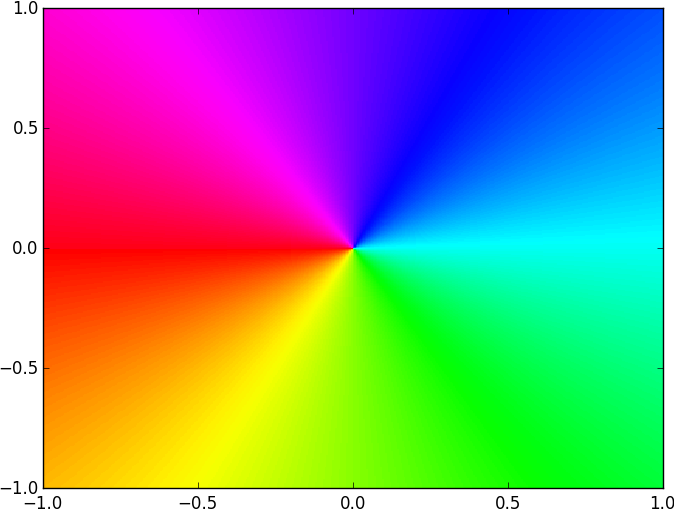
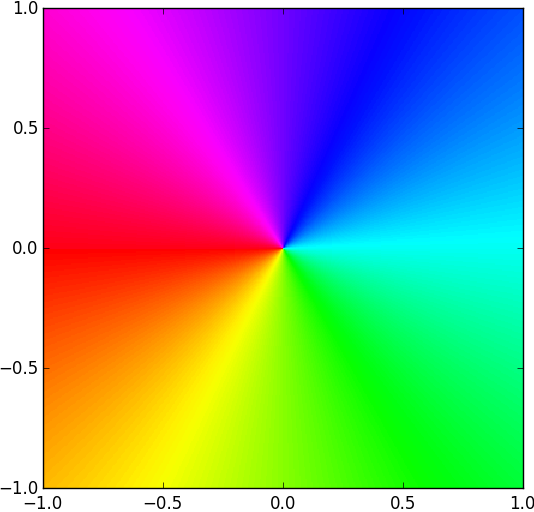
finished editing pictures and appendix

diff --git a/Labs/ComplexNumbers/complexnumbers.tex b/Labs/ComplexNumbers/complexnumbers.tex
@@ -67,8 +67,9 @@ This colormap is red at both ends, so that $0$ and $2 \pi$ will map to the same 
 
 
 \begin{figure}
-\includegraphics[width=\textwidth]{Identity.png}
-\caption{Color plot of the identity map.}
+\includegraphics[width=.7\textwidth]{Identity.png}
+\caption{Plot of $f: \mathbb{C} \rightarrow \mathbb{C}$ defined by $f(z)=z$. 
+The color at each point $z$ represents the argument of $f(z)$.}
 \label{fig:identity}
 \end{figure}
 
@@ -99,8 +100,8 @@ If you do not specify them, matplotlib will scale the colormap to fit your data 
 
 Check your function on the identity (graphed in Figure \ref{fig:identity}) and on the function $f(z) = \sqrt{z^2+1}$, which is graphed in Figure \ref{fig:check_plot}.
 \begin{figure}[H]
-\includegraphics[width=\textwidth]{check_plot.png}
-\caption{Plot of $\sqrt{z^2+1}$ on the domain $\{x+iy \mid x \in [-3,3] , y \in [-3,3]\}$ created by \li{plot_complex()}.}
+\includegraphics[width=.7\textwidth]{check_plot.png}
+\caption{Plot of $\sqrt{z^2+1}$ on the domain $\{x+iy \mid x \in [-3,3] , \; y \in [-3,3]\}$ created by \li{plot_complex()}.}
 \label{fig:check_plot}
 \end{figure}
 
@@ -117,7 +118,7 @@ The plots created by your function \li{plot_complex()} are surprisingly informat
 \leavevmode
 \begin{enumerate}
 \item Use \li{plot_complex()} to plot the functions $z^2$, $z^3$, and $z^4$. What do you notice?
-\item Plot $z^3 - iz^4 - 3z^6$ on the domain $\{x+iy \mid x \in [-1,1] , y \in [-1,1]\}$ (this plot is Figure \ref{TODO!}). 
+\item Plot $z^3 - iz^4 - 3z^6$ on the domain $\{x+iy \mid x \in [-1,1] , \; y \in [-1,1]\}$ (this plot is Figure \ref{fig:zeros}). 
 Compare it to your plot of $z^3$, especially near the origin.
 Based on these plots, what can you learn about the zeros of a function from its graph?
 \end{enumerate}
@@ -140,13 +141,20 @@ f(z) = \sum_{k=n}^{\infty} a_k(z-z_0)^k \qquad \text{with} \; a_n \neq 0.
 \]
 In other words, $f(z) = a_n(z-z_0)^n + a_{n+1}(z-z_0)^{n+1} + \ldots$. 
 In a small neighborhood of $z_0$, the quantity $|z-z_0|^{n+k}$ is much smaller than $|z-z_0|^n$, and so the function behaves like $a_n(z-z_0)^n$.
-This explains why you can estimate the order of a zero by counting the number of times the colors circle a point (see Figure \ref{TODO}).
+This explains why you can estimate the order of a zero by counting the number of times the colors circle a point (see Figure \ref{fig:zeros}).
 
-% Insert plot of $f(z) = z^3 - i*z^4 - 3*z^6$. From this plot we see that $f(z)$ has a zero of order 3 at the origin, and 3 zeros of order 1 scattered around it. This accounts for the 6 roots of $f(z)$ that are guaranteed to exist by the Fundamental Theorem of Algebra.
+\begin{figure}
+\includegraphics[width=.7\textwidth]{zeros.png}
+\caption{Plot of $f(z)=z^3 - iz^4 - 3z^6$ on the domain $\{x+iy \mid x \in [-1,1] , \; y \in [-1,1]\}$.
+From this plot we see that $f(z)$ has a zero of order 3 at the origin, and 3 zeros of order 1 scattered around it. 
+This accounts for the 6 roots of $f(z)$ that are guaranteed to exist by the Fundamental Theorem of Algebra.}
+\label{fig:zeros}
+\end{figure}
+
 
 \subsection*{Poles}
 
-These plots can also tell us about the poles of a function.
+The plots created by \li{plot_complex()} can also tell us about the poles of a function.
 
 \begin{problem}\label{prob:poles}
 \leavevmode
@@ -154,7 +162,7 @@ These plots can also tell us about the poles of a function.
 \item Use \li{plot_complex()} to plot the function $f(z) = 1/z$. 
 Compare this to the plot of $f(z)=z$ in Figure \ref{fig:identity}.
 What is the difference?
-\item Plot $z^{-2}$, $z^{-3}$, and $z^2+iz^{-1}+z^{-3}$ on the domain $[-1,1] \times [-1,1]$. 
+\item Plot $z^{-2}$, $z^{-3}$, and $z^2+iz^{-1}+z^{-3}$ on the domain $\{x+iy \mid x \in [-1,1] , \; y \in [-1,1]\}$. 
 Compare the plots of the last two functions near the origin.
 Based on these plots, what can you learn about the poles of a function from its graph?
 \end{enumerate}
@@ -172,7 +180,7 @@ In general, a function has a \emph{pole of order n} at $z_0$ if its Laurent seri
 f(z) = \sum_{k=-n}^\infty a_k(z-z_0)^k  \qquad \text{with} \; a_{-n} \neq 0.
 \]
 In other words, $f(z) = a_{-n}(z-z_0)^{-n}+a_{-n+1}(z-z_0)^{-n+1} + \ldots$.
-Since $|z-z_0|^{-n+k}$ is much smaller than $|z-z_0|^n$ when $|z-z_0|$ is small, near $z_0$ the function behaves like $a_{-n}(z-z_0)^-n$.
+Since $|z-z_0|^{-n+k}$ is much smaller than $|z-z_0|^{-n}$ when $|z-z_0|$ is small, near $z_0$ the function behaves like $a_{-n}(z-z_0)^{-n}$.
 This explains why you can estimate the order of a pole by counting the number of times the colors circle a point in the ``backwards direction.''
 
 Finally, a function has an \emph{essential pole} at $z_0$ if its Laurent series in a punctured neighborhood of $z_0$ requires infinitely many terms with negative exponents.
@@ -180,8 +188,16 @@ For example,
 \[
 e^{1/z} = \sum_{k=0}^{\infty}\frac{1}{n! z^n} = 1+\frac{1}{z}+\frac{1}{2}\frac{1}{z^2}+\frac{1}{6}\frac{1}{z^3}+\ldots.
 \]
-The plot of $f(z) = e^{1/z}$ is in Figure \ref{fig:}. 
+The plot of $f(z) = e^{1/z}$ is in Figure \ref{fig:essential_singularity}. 
 Here, you can see that the colors circle around an essential singularity infinitely many times.
+
+\begin{figure}
+\includegraphics[width=.7\textwidth]{essential_pole.png}
+\caption{Plot of $e^{1/z}$ on the domain $\{x+iy \mid x \in [-1,1] , \; y \in [-1,1]\}$.
+The colors circle clockwise around the origin because it is a singularity, not a zero.
+Because the singularity is essential, the colors repeat infinitely many times.}
+\label{fig:essential_singularity}
+\end{figure}
 
 \subsection*{Using plots to estimate poles and zeros}
 To summarize, you can use the plot of a complex function to estimate its poles and zeros with the following rules.
@@ -194,10 +210,10 @@ To summarize, you can use the plot of a complex function to estimate its poles a
 \begin{problem}\label{prob:findpz}
 Plot these functions on the domains given and estimate the number and order of their poles and zeros.
 \begin{itemize}
-\item $f(z) = e^z$ on $\{ x+iy \mid x \in [-8,8], y \in [-8,8]\}$
+\item $f(z) = e^z$ on $\{ x+iy \mid x \in [-8,8], \; y \in [-8,8]\}$
 %\item $z^2-2z^7+2z^6-4z^5+2z^4-2z^3-5z^2+4z-4$ from $x \in [-2.5,2.5]$ and $y \in [-2.5,2.5]$ 
-\item $f(z) = \tan(z)$ on $\{x+iy \mid x \in [-8,8], y \in [-8,8]\}$
-\item $f(z) = \frac{16z^4+32z^3+32z^2+16z+4}{16z^4-16z^3+5z^2}$ on $\{x+iy \mid x \in [-1,1], y \in [-1,1]\}$
+\item $f(z) = \tan(z)$ on $\{x+iy \mid x \in [-8,8], \; y \in [-8,8]\}$
+\item $f(z) = \frac{16z^4+32z^3+32z^2+16z+4}{16z^4-16z^3+5z^2}$ on $\{x+iy \mid x \in [-1,1], \; y \in [-1,1]\}$
 %\item $f(z) = \sin{\frac{1}{z}}$ on ${x+iy \mid x \in [-.8,.8], y \in [-.8,.8]\}$
 \end{itemize}
 \end{problem}
@@ -217,17 +233,18 @@ Plotting functions is not a substitute for rigorous mathematics.
 Often, plots can be deceptive.
 
 \begin{problem}\label{prob:caution}
+\leavevmode
 \begin{enumerate}
 \item This example shows that sometimes you have to ``zoom in'' to see all the information about a pole.
 \begin{enumerate}
-\item Plot the function $f(z) =\sin( \frac{1}{100z})$ on the domain $\{x+iy \mid x \in [-1,1], y \in [-1,1]\}$.
+\item Plot the function $f(z) =\sin( \frac{1}{100z})$ on the domain $\{x+iy \mid x \in [-1,1],\; y \in [-1,1]\}$.
 What might you conclude about this function?
-\item Now plot $f(z)$ on $\{x+iy \mid x \in [-.01,.01], y \in [-.01,.01]\}$.
+\item Now plot $f(z)$ on $\{x+iy \mid x \in [-.01,.01], \; y \in [-.01,.01]\}$.
 Now what do you conclude about the function?
 \end{enumerate}
-\item This example shows that from far away, two distinct zeros (or poles) can appear to be a single zero (or pole) of higher multiplicity.
+\item This example shows that from far away, two distinct zeros (or poles) can appear to be a single zero (or pole) of higher order.
 \begin{enumerate}
-\item Plot the function $f(z) = z+1000z^2$ on the domain $\{x+iy \mid x \in [-1,1], y \in [-1,1]\}$.
+\item Plot the function $f(z) = z+1000z^2$ on the domain $\{x+iy \mid x \in [-1,1], \; y \in [-1,1]\}$.
 What does this plot imply about the zeros of this function?
 \item Find the zeros of $f(z)$ using algebra.
 \item Plot $f(z)$ on a domain that allows you to see the true nature of its zeros.
@@ -431,14 +448,25 @@ What do you see?
 \end{enumerate}
 \end{problem}
 
-Just as raising $z$ to a positive integer ''compresses the $\theta$-axis'', making the color wheel repeat itself $n$ times around 0, raising $z$ to a negative power \emph{stretches} the $\theta$-axis, so that only one $n^{th}$ of the color wheel appears around 0.
-The ends of this $n^{th}$-slice are not the same, but they appear next to each other in the plot of $z^{-n}$.
-This discontinuity will appear in ever neighborhood of the origin. 
-However, if your domain does not contain the origin, it is possible to define a continuous root function by picking one of the roots.
+Just as raising $z$ to a positive integer ``compresses the $\theta$-axis'', making the color wheel repeat itself $n$ times around 0, raising $z$ to a negative power \emph{stretches} the $\theta$-axis, so that only one $n^{th}$ of the color wheel appears around 0.
+The colors at the ends of this $n^{th}$-slice are not the same, but they appear next to each other in the plot of $z^{-n}$.
+This discontinuity will appear in every neighborhood of the origin. 
+
+
+If your domain does not contain the origin, it is possible to define a continuous root function by picking one of the roots.
 
 
 \section*{Appendix}
-The colorize function below takes in an array of complex values and outputs the RBG colors for each point.
+It is possible to visualize the argument and the modulus of the output of a complex function $f(z)$. 
+One way to do so is to assign the modulus to a \emph{lightness} of color.
+For example, suppose we have a complex number with argument 0, so it will map to red in the color plots described above.
+If its modulus is very small, then we can map it to a blackish red, and if its modulus is large, we can map it to a whitish red.
+With this extra rule, our complex plots will still be very much the same, except that zeros will look like black dots and poles will look like white dots (see Figure \ref{fig:example} for an example).
+
+The code below implements the map we just described.
+Be warned that this implementation does not scale well.
+For example, if you try to plot a complex function whose outputs are all very small in modulus, the entire plot will appear black.
+
 
 \begin{lstlisting}
 import numpy as np
@@ -446,41 +474,56 @@ import matplotlib.pyplot as plt
 from colorsys import hls_to_rgb
 
 def colorize(z):
+    ''' 
+    Map a complex number to a color (or hue) and lightness.
+    
+    INPUT:
+    z - an array of complex numbers in rectangular coordinates
+    
+    OUTPUT:
+    If z is an n x m array, return an n x m x 3 array whose third axis encodes 
+    (hue, lightness, saturation) tuples for each entry in z. This new array can 
+    be plotted by plt.imshow().
+    '''
+    
     zy=np.flipud(z)
     r = np.abs(zy)
     arg = np.angle(zy)
 
+    # Define hue (h), lightness (l), and saturation (s)
+    # Saturation is constant in our visualizations
     h = (arg + np.pi)  / (2 * np.pi) + 0.5
     l = 1.0 - 1.0/(1.0 + r**0.3)
     s = 0.8
 
-    c = np.vectorize(hls_to_rgb) (h,l,s) # --> tuple
-    c = np.array(c)  # -->  array of (3,n,m) shape, but need (n,m,3)
+    # Convert the HLS values to RGB values.
+    # This operation returns a tuple of shape (3,n,m).
+    c = np.vectorize(hls_to_rgb) (h,l,s) 
+    
+    # Convert c to an array and change the shape to (n,m,3)
+    c = np.array(c)  
     c = c.swapaxes(0,2)
     c = c.swapaxes(0,1)
     return c
 \end{lstlisting}
 
-The following code uses the colorize function to plot  $\frac{x^2 - 1}{x}$ see \ref{fig:example} for what the output looks like.
+The following code uses the \li{colorize()} function to plot  $\frac{z^2 - 1}{z}$. The output is Figure \ref{fig:example}.
 
 \begin{lstlisting}
-def f(z):
-	return (z**2-1)/z
-xbounds=(-.5, 1.5)
-ybounds=(-1, 1)
-res=401
-x = np.linspace(xbounds[0],xbounds[1], res)
-y = np.linspace(ybounds[0],ybounds[1], res)
-X,Y = np.meshgrid(x,y)
-Z=f(X+Y*1j)
-Zc=colorize(Z)
-plt.imshow(Zc,extent=(xbounds[0],xbounds[1],ybounds[0],ybounds[1]))
-plt.show()
+>>> f = lambda z :  (z**2-1)/z
+>>> x = np.linspace(-.5, 1.5, 401)
+>>> y = np.linspace(-1, 1, 401)
+>>> X,Y = np.meshgrid(x,y)
+>>> Z=f(X+Y*1j)
+>>> Zc=colorize(Z)
+>>> plt.imshow(Zc, extent=(-.5, 1.5, -1, 1))
+>>> plt.show()
 \end{lstlisting}
 
 \begin{figure}
 \includegraphics[width=\textwidth]{example.png}
-\caption{Colorplot of the  function $\frac{x^2 - 1}{x}$.}
+\caption{Plot of the function $\frac{z^2 - 1}{z}$ created with \li{colorize()}.
+Notice that the zero at 1 is a black dot and the pole at 0 is a white dot.}
 \label{fig:example}
 \end{figure}
 
